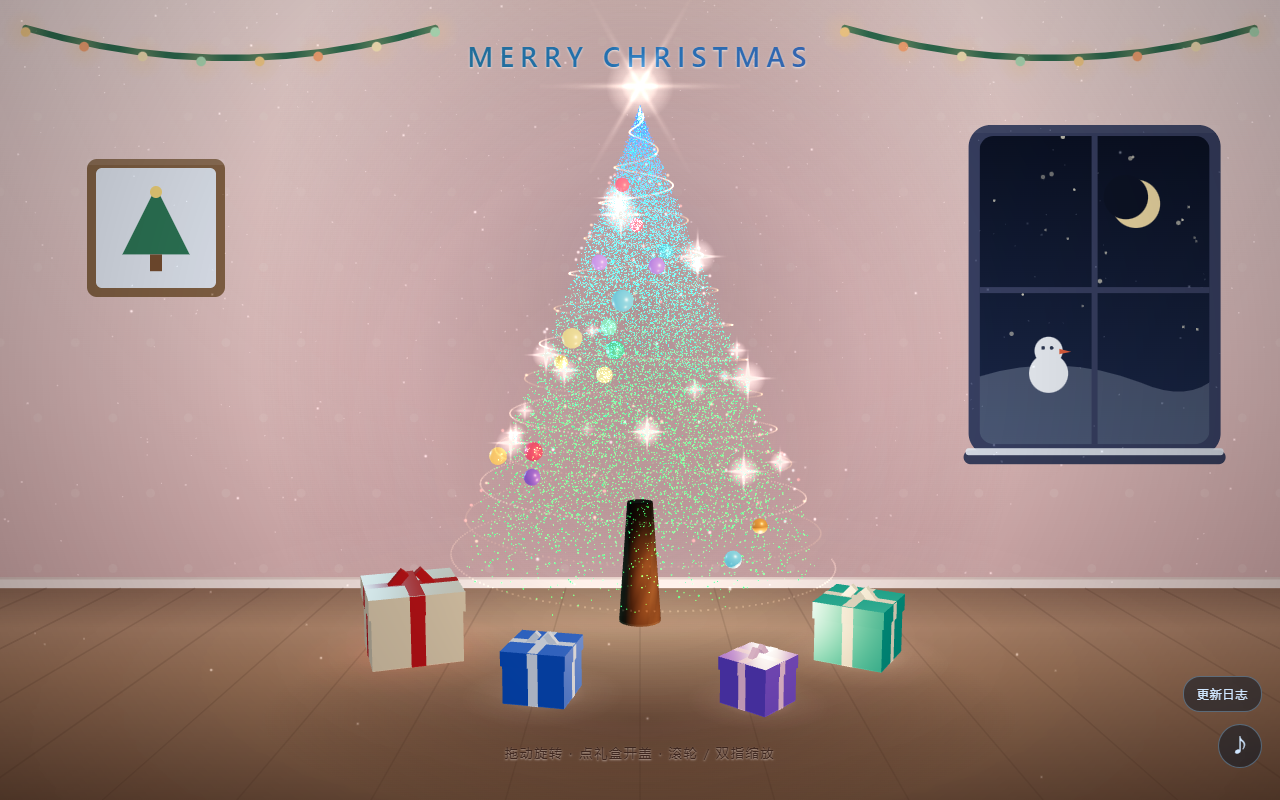
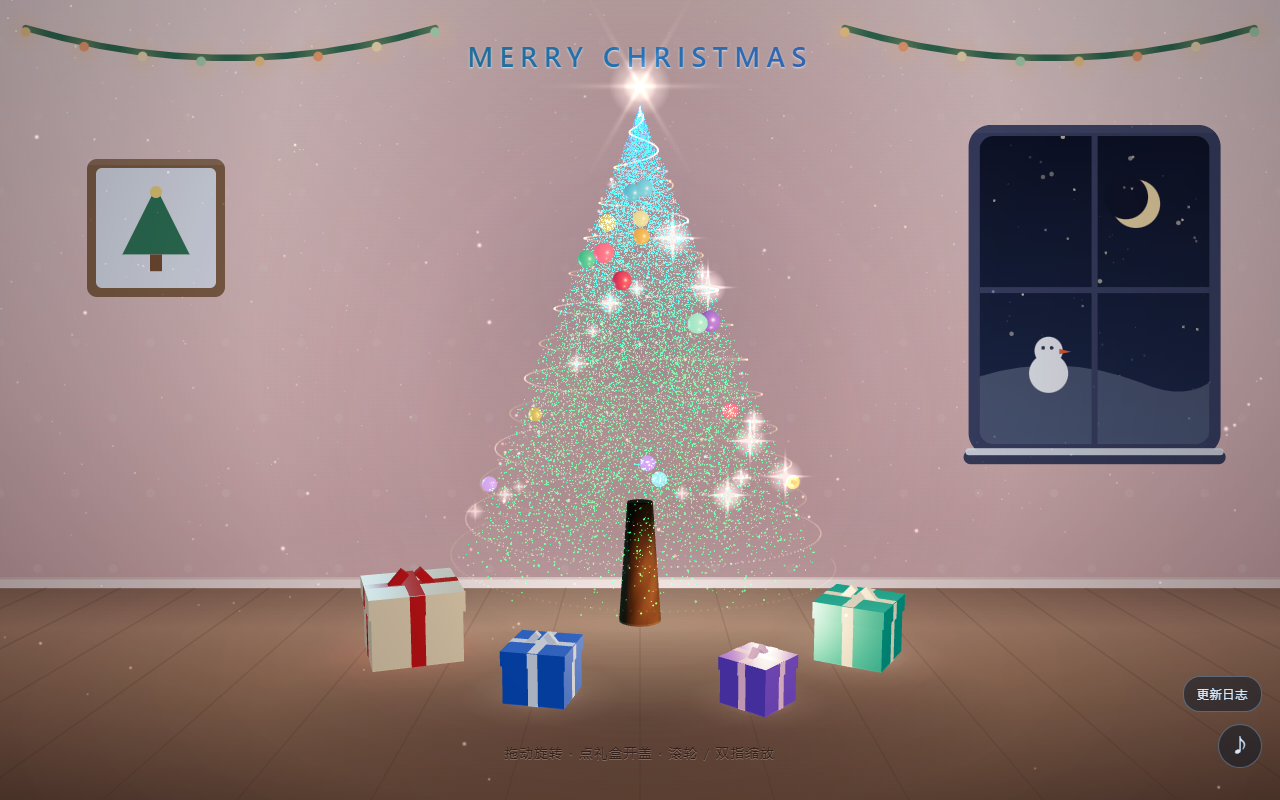
窗外景色随本地时间变化：白天/黄昏/夜晚三种，每分钟自动重画

Changed region(s): [[0.375, 0.0625, 0.625, 0.7188]]

diff --git a/index.html b/index.html
@@ -117,6 +117,8 @@ function roomRoundRect(c, x, y, w, h, r) {
   c.closePath();
 }
 
+let lastGroundY = null;
+
 function drawRoom(groundY) {
   const W = window.innerWidth;
   const H = window.innerHeight;
@@ -191,42 +193,96 @@ function drawRoom(groundY) {
   roomRoundRect(c, winX - 11, winY - 11, winW + 22, 8, 6);
   c.fill();
 
-  // 窗内的雪夜
+  // 窗外的景色跟着本地时间走：白天 / 黄昏 / 夜晚
+  const nowClock = new Date();
+  const hourNow = nowClock.getHours() + nowClock.getMinutes() / 60;
+  const phase = (hourNow >= 6 && hourNow < 17) ? 'day' : (hourNow >= 17 && hourNow < 19.5 ? 'dusk' : 'night');
+
   c.save();
   roomRoundRect(c, winX, winY, winW, winH, 14);
   c.clip();
+
   const sky = c.createLinearGradient(0, winY, 0, winY + winH);
-  sky.addColorStop(0, '#0b1226');
-  sky.addColorStop(1, '#1c2a4d');
+  if (phase === 'day') {
+    sky.addColorStop(0, '#6fb8e8');
+    sky.addColorStop(1, '#d8edff');
+  } else if (phase === 'dusk') {
+    sky.addColorStop(0, '#f2a86f');
+    sky.addColorStop(0.5, '#dd7f7a');
+    sky.addColorStop(1, '#7b4a71');
+  } else {
+    sky.addColorStop(0, '#0b1226');
+    sky.addColorStop(1, '#1c2a4d');
+  }
   c.fillStyle = sky;
   c.fillRect(winX, winY, winW, winH);
 
-  // 星星
-  for (let i = 0; i < 26; i++) {
-    const sx = winX + rnd() * winW;
-    const sy = winY + rnd() * winH * 0.7;
-    const sr = rnd() < 0.2 ? 2.2 : 1.2;
-    c.fillStyle = 'rgba(255, 250, 226, ' + (0.35 + rnd() * 0.5).toFixed(2) + ')';
+  // 太阳 / 月亮
+  const orb = (ox, oy, orad, inner, outer) => {
+    const g = c.createRadialGradient(ox, oy, 0, ox, oy, orad * 3.2);
+    g.addColorStop(0, inner);
+    g.addColorStop(1, outer);
+    c.fillStyle = g;
     c.beginPath();
-    c.arc(sx, sy, sr, 0, Math.PI * 2);
+    c.arc(ox, oy, orad * 3.2, 0, Math.PI * 2);
+    c.fill();
+    c.fillStyle = inner;
+    c.beginPath();
+    c.arc(ox, oy, orad, 0, Math.PI * 2);
+    c.fill();
+  };
+
+  if (phase === 'day') {
+    orb(winX + winW * 0.74, winY + winH * 0.19, winW * 0.075,
+      '#fff8cf', 'rgba(255, 248, 207, 0)');
+  } else if (phase === 'dusk') {
+    orb(winX + winW * 0.66, winY + winH * 0.60, winW * 0.085,
+      '#ffd9a0', 'rgba(255, 217, 160, 0)');
+  } else {
+    const mx = winX + winW * 0.68;
+    const my = winY + winH * 0.22;
+    const mr = winW * 0.105;
+    c.fillStyle = '#ffe9b0';
+    c.beginPath();
+    c.arc(mx, my, mr, 0, Math.PI * 2);
+    c.fill();
+    c.fillStyle = '#0d1428';
+    c.beginPath();
+    c.arc(mx - mr * 0.42, my - mr * 0.28, mr * 0.92, 0, Math.PI * 2);
     c.fill();
   }
 
-  // 月牙
-  const mx = winX + winW * 0.68;
-  const my = winY + winH * 0.22;
-  const mr = winW * 0.105;
-  c.fillStyle = '#ffe9b0';
-  c.beginPath();
-  c.arc(mx, my, mr, 0, Math.PI * 2);
-  c.fill();
-  c.fillStyle = '#0d1428';
-  c.beginPath();
-  c.arc(mx - mr * 0.42, my - mr * 0.28, mr * 0.92, 0, Math.PI * 2);
-  c.fill();
+  // 星星只在夜里出现
+  if (phase === 'night') {
+    for (let i = 0; i < 26; i++) {
+      const sx = winX + rnd() * winW;
+      const sy = winY + rnd() * winH * 0.7;
+      const sr = rnd() < 0.2 ? 2.2 : 1.2;
+      c.fillStyle = 'rgba(255, 250, 226, ' + (0.35 + rnd() * 0.5).toFixed(2) + ')';
+      c.beginPath();
+      c.arc(sx, sy, sr, 0, Math.PI * 2);
+      c.fill();
+    }
+  }
+
+  // 白天 / 黄昏有几朵云
+  if (phase !== 'night') {
+    const cloud = (cx, cy, s0) => {
+      c.fillStyle = phase === 'day' ? 'rgba(255, 255, 255, 0.92)' : 'rgba(255, 220, 198, 0.8)';
+      c.beginPath();
+      c.arc(cx, cy, s0, 0, Math.PI * 2);
+      c.arc(cx + s0 * 0.9, cy + s0 * 0.16, s0 * 0.78, 0, Math.PI * 2);
+      c.arc(cx - s0 * 0.85, cy + s0 * 0.22, s0 * 0.7, 0, Math.PI * 2);
+      c.fill();
+    };
+    cloud(winX + winW * 0.30, winY + winH * 0.20, winW * 0.085);
+    cloud(winX + winW * 0.64, winY + winH * 0.40, winW * 0.062);
+  }
 
   // 雪地
-  c.fillStyle = 'rgba(222, 234, 255, 0.26)';
+  c.fillStyle = phase === 'night' ? 'rgba(222, 234, 255, 0.26)'
+    : phase === 'dusk' ? 'rgba(255, 226, 232, 0.55)'
+      : 'rgba(255, 255, 255, 0.88)';
   c.beginPath();
   c.moveTo(winX, winY + winH * 0.78);
   c.quadraticCurveTo(winX + winW * 0.35, winY + winH * 0.70, winX + winW * 0.7, winY + winH * 0.80);
@@ -236,11 +292,11 @@ function drawRoom(groundY) {
   c.closePath();
   c.fill();
 
-  // 雪人（Q 版：两个圆 + 小帽子 + 鼻子）
+  // 雪人（Q 版：两个圆 + 胡萝卜鼻）
   const snx = winX + winW * 0.30;
   const sny = winY + winH * 0.77;
   const snr = winW * 0.085;
-  c.fillStyle = '#f4f8ff';
+  c.fillStyle = '#f7fbff';
   c.beginPath();
   c.arc(snx, sny, snr, 0, Math.PI * 2);
   c.fill();
@@ -265,7 +321,6 @@ function drawRoom(groundY) {
   c.fillRect(winX + winW / 2 - 3, winY, 6, winH);
   c.fillRect(winX, winY + winH / 2 - 3, winW, 6);
   c.restore();
-
   // 窗台（贴着窗框下沿）+ 一层积雪
   c.fillStyle = '#39405f';
   roomRoundRect(c, winX - 16, winY + winH + 6, winW + 32, 14, 7);
@@ -334,8 +389,9 @@ function drawRoom(groundY) {
   swag(W * 0.66, W * 0.98, H * 0.075);
 
   /* ---- 地板：墙脚线在树后面，树和礼盒都站在这条线下方 ---- */
-  // 墙脚线高度：由 3D 场景里地面原点投影到屏幕的位置决定，桌面和手机都能对上  
-  const groundScreenY = (typeof groundY === 'number' && groundY > 0) ? groundY : H * 0.88;
+  if (typeof groundY === 'number' && groundY > 0) lastGroundY = groundY;
+  // 墙脚线高度：由 3D 场景里地面原点投影到屏幕的位置决定，桌面和手机都能对上
+  const groundScreenY = lastGroundY || H * 0.88;
   const baseY = groundScreenY - Math.max(8, H * 0.035);
 
   // 墙脚线（踢脚板）—— 先画在墙上，再铺地板
@@ -394,7 +450,19 @@ function drawRoom(groundY) {
   vig.addColorStop(1, 'rgba(0, 0, 0, 0.45)');
   c.fillStyle = vig;
   c.fillRect(0, 0, W, H);
+
+  // 房间整体色调跟着时间轻微变化：白天偏暖、夜里偏冷
+  if (phase === 'day') {
+    c.fillStyle = 'rgba(255, 240, 220, 0.05)';
+    c.fillRect(0, 0, W, H);
+  } else if (phase === 'night') {
+    c.fillStyle = 'rgba(30, 18, 48, 0.10)';
+    c.fillRect(0, 0, W, H);
+  }
 }
+
+// 每分钟重画一次，窗外的天色会跟着时间自己变
+setInterval(() => drawRoom(lastGroundY), 60000);
 
 window.addEventListener('resize', () => drawRoom());
 
@@ -1583,6 +1651,8 @@ animate();
 </script>
 </body>
 </html>
+
+
 
 
 

diff --git a/changelog.html b/changelog.html
@@ -106,11 +106,25 @@
   <article class="entry latest">
     <span class="date">2026-11-25</span><span class="tag">最新</span>
     <ul>
+      <li>窗外景色跟着<b>本地时间</b>变：白天蓝天白云 + 太阳，黄昏橙紫晚霞，夜里星空月牙</li>
+      <li>房间整体色调也跟着微微变（白天偏暖、夜里偏冷），页面开着不关每 60 秒自动重画</li>
+    </ul>
+  </article>
+  <article class="entry latest">
+    <span class="date">2026-11-25</span>
+    <ul>
       <li>加了 <b>Q 版圣诞夜的客厅墙背景</b>：墙纸圆点、顶部两段圣诞花环和彩色小灯、右下角飘雪的窗户（窗外有月亮和小雪人）、左边一幅小树相框、护墙板和地毯</li>
       <li>背景用 Canvas 2D 现画，不依赖任何图片；3D 画布改成透明叠在上面，树还是发光的</li>
       <li>墙面换成<b>淡粉色</b>，标题改成深绿→蓝→紫渐变</li>
       <li>补了真正的房间结构：<b>墙脚线 + 木地板（带透视地板缝）</b>，墙脚线高度按 3D 相机把地面投影到屏幕的位置算，所以树和礼盒现在都实实在在站在地板上，桌面上和手机上都对得上</li>
       <li>树后面加了一层椭圆柔光暗影，浅色墙上也能立起来</li>
+    </ul>
+  </article>
+  <article class="entry latest">
+    <span class="date">2026-11-25</span><span class="tag">最新</span>
+    <ul>
+      <li>窗外景色跟着<b>本地时间</b>变：白天蓝天白云 + 太阳，黄昏橙紫晚霞，夜里星空月牙</li>
+      <li>房间整体色调也跟着微微变（白天偏暖、夜里偏冷），页面开着不关每 60 秒自动重画</li>
     </ul>
   </article>
   <article class="entry latest">
@@ -123,11 +137,25 @@
   <article class="entry latest">
     <span class="date">2026-11-25</span><span class="tag">最新</span>
     <ul>
+      <li>窗外景色跟着<b>本地时间</b>变：白天蓝天白云 + 太阳，黄昏橙紫晚霞，夜里星空月牙</li>
+      <li>房间整体色调也跟着微微变（白天偏暖、夜里偏冷），页面开着不关每 60 秒自动重画</li>
+    </ul>
+  </article>
+  <article class="entry latest">
+    <span class="date">2026-11-25</span>
+    <ul>
       <li>加了 <b>Q 版圣诞夜的客厅墙背景</b>：墙纸圆点、顶部两段圣诞花环和彩色小灯、右下角飘雪的窗户（窗外有月亮和小雪人）、左边一幅小树相框、护墙板和地毯</li>
       <li>背景用 Canvas 2D 现画，不依赖任何图片；3D 画布改成透明叠在上面，树还是发光的</li>
       <li>墙面换成<b>淡粉色</b>，标题改成深绿→蓝→紫渐变</li>
       <li>补了真正的房间结构：<b>墙脚线 + 木地板（带透视地板缝）</b>，墙脚线高度按 3D 相机把地面投影到屏幕的位置算，所以树和礼盒现在都实实在在站在地板上，桌面上和手机上都对得上</li>
       <li>树后面加了一层椭圆柔光暗影，浅色墙上也能立起来</li>
+    </ul>
+  </article>
+  <article class="entry latest">
+    <span class="date">2026-11-25</span><span class="tag">最新</span>
+    <ul>
+      <li>窗外景色跟着<b>本地时间</b>变：白天蓝天白云 + 太阳，黄昏橙紫晚霞，夜里星空月牙</li>
+      <li>房间整体色调也跟着微微变（白天偏暖、夜里偏冷），页面开着不关每 60 秒自动重画</li>
     </ul>
   </article>
   <article class="entry latest">
@@ -174,6 +202,7 @@
 </div>
 </body>
 </html>
+
 
 
 
